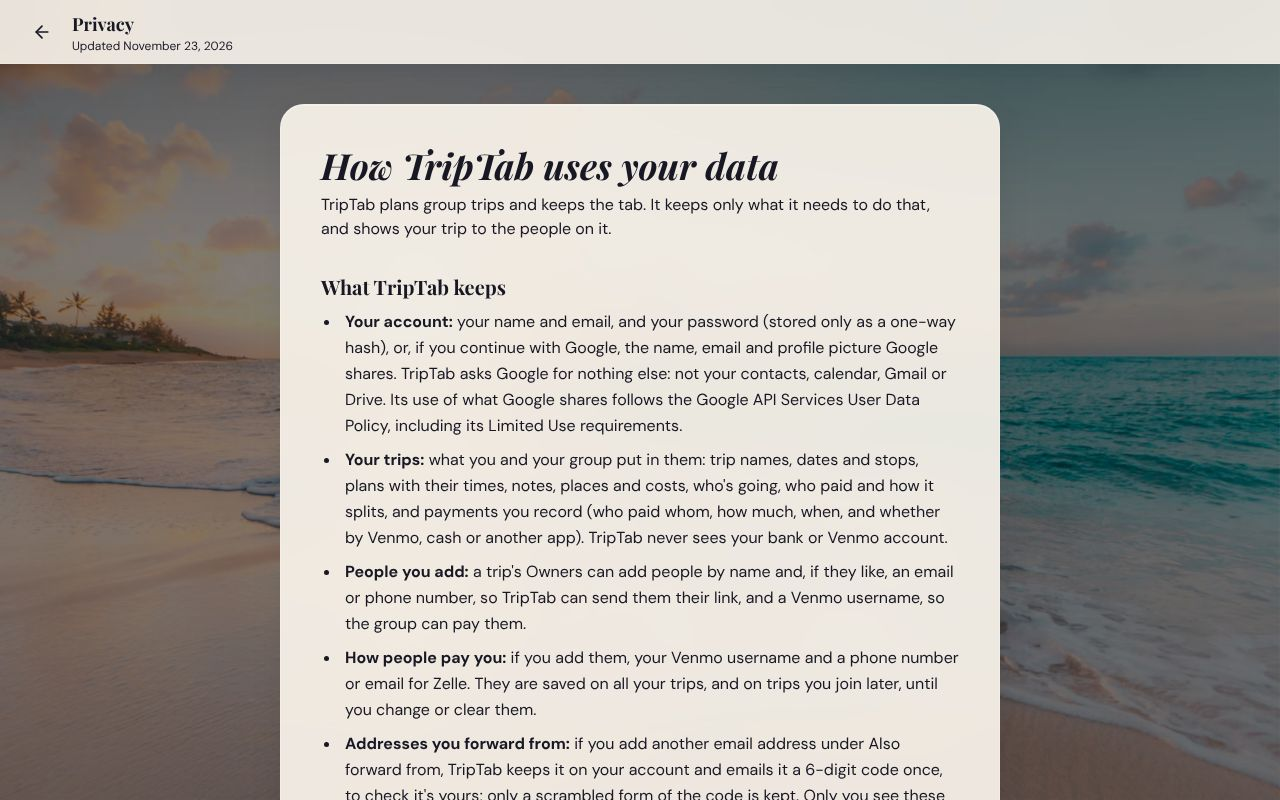
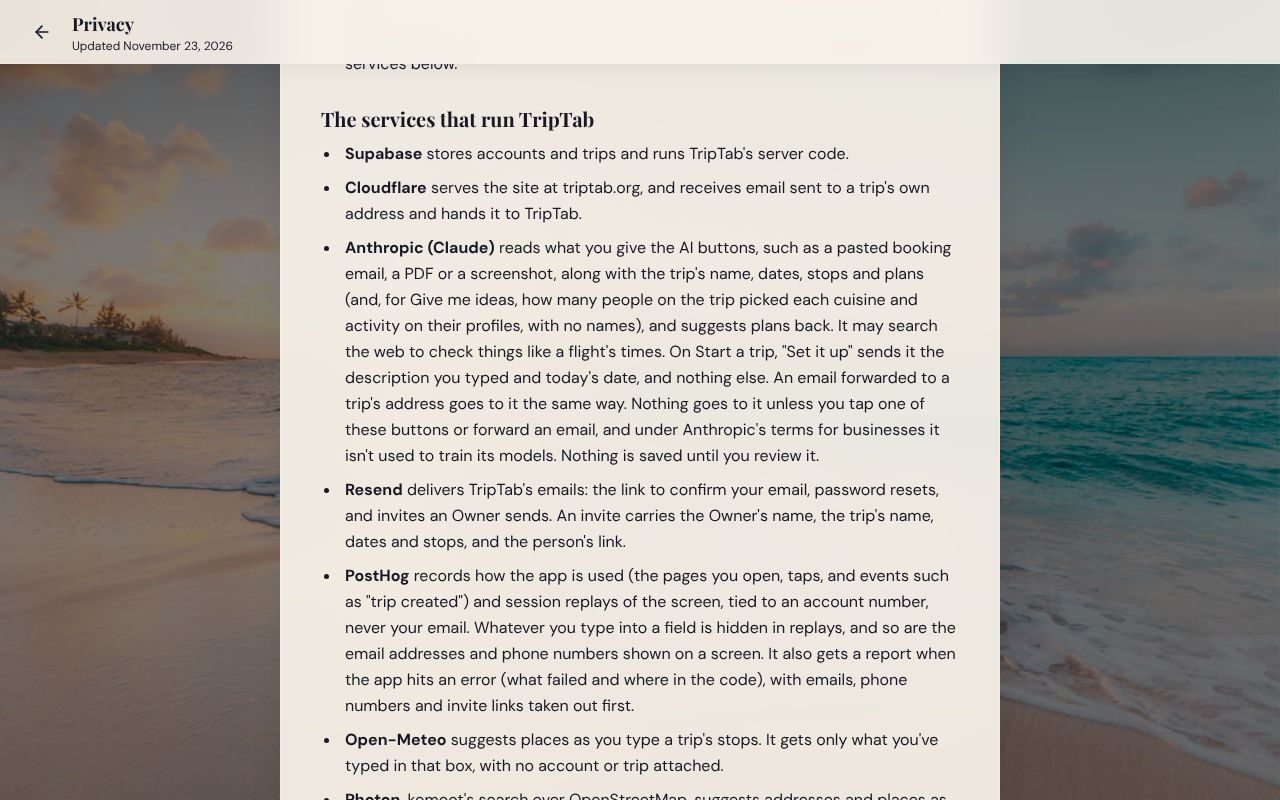
Build 4 log so far, votes on the privacy page, the new click-throughs in npm run e2e, and rule 12 (#91)
* Build 4 log so far, the new click-throughs in npm run e2e, AGENTS.md rule 12

* Product Vision: what was built 11/23 (re-export)

* Older click-throughs pick the first Start a trip button on the new landing page

* Start-trip click-through opens the folded day first

* The privacy page says who sees your votes

* Build 4: Track B, with the Euro ski trip group

Changed region(s): [[0.25, 0.1875, 0.75, 1.0], [0.2188, 0.0625, 0.7812, 0.1562]]

diff --git a/docs/index.html b/docs/index.html
@@ -297,7 +297,15 @@
       <div class="log-entry">
         <h3>Build 4 · Test.py: Choose Track A or Track B (Due Nov 30)</h3>
         <ul>
-          <li><strong>Chosen track:</strong> [A: 10-case domain eval and one outside target-user review; OR B: 3–5 outside users and replay findings]</li>
+          <li><strong>Shipped so far (11/23, pull requests #77 to #90):</strong> the calls I made after a product manager review of the live app, each live on triptab.org after its tests and a click-through at laptop and phone width.
+            <ul>
+              <li><strong>Getting friends in:</strong> an Invite the group card while you're alone on a trip; the invite page shows who invited you, who's coming and the next three plans before you sign up (never a cost); from the link to the trip with no second Join, pay step, tour or email reminder in the way.</li>
+              <li><strong>Your profile (You):</strong> name, Venmo, Zelle and phone kept once and filled in on every trip you join, with a lock you set: locked, no Owner can change them. An optional preferences survey (food, things to do), private by default, shapes Plan with AI as a count with no names; its eval was rerun before it shipped (12 of 12 cases, $0.22 at list price, <a href="https://github.com/building-with-ai-f26/mwp9437-triptab/blob/main/journal/evals/README.md">results</a>).</li>
+              <li><strong>On a phone:</strong> a bottom bar for Itinerary, Money, To do and People; pinned buttons on sheets, 44 px tap targets, empty days folded; an unsaved AI review kept on the trip.</li>
+              <li><strong>On a trip:</strong> who's in on a plan always matches its bill (the "Everyone" bug); Confirm and log the cost first on a Planned plan; Your plans at the top for a friend; "I want this" votes on Suggested plans; a landing page that shows the product; app errors reported to PostHog with emails, phones and links scrubbed.</li>
+            </ul>
+          </li>
+          <li><strong>Chosen track:</strong> B: 3 to 5 outside users and replay findings. The users are the friends on my Euro ski trip (chosen 11/23).</li>
           <li><strong>Results and improvements:</strong> [Before/after evidence; for Track B, fixes to the top three friction points]</li>
           <li><strong>PRD v4 changes:</strong> [What the evidence changed]</li>
           <li><strong>Cost & time this week:</strong> $[0.00] · [0] hours</li>

diff --git a/app/src/pages/Privacy.tsx b/app/src/pages/Privacy.tsx
@@ -40,6 +40,10 @@ const SECTIONS: { title: string; body: ReactNode }[] = [
           ticked. It's optional, and private unless you choose to share it.
         </li>
         <li>
+          <b>Plans you say you want:</b> if you tap I want this on a suggested plan, TripTab keeps that vote until you
+          take it back or the plan is removed.
+        </li>
+        <li>
           <b>Addresses you forward from:</b> if you add another email address under Also forward from, TripTab keeps it
           on your account and emails it a 6-digit code once, to check it's yours; only a scrambled form of the code is
           kept. Only you see these addresses, and you can remove them at any time.
@@ -85,6 +89,7 @@ const SECTIONS: { title: string; body: ReactNode }[] = [
           people on the trip picked each thing ("3 of 4 like Italian"), never who, so its ideas fit the group. On a
           trip of two, that can hint at the other person's picks.
         </li>
+        <li>Your votes on suggested plans are shown, with your name, to the people on that trip.</li>
         <li>A price you mark as your own (when everyone pays their own) is shown only to you.</li>
         <li>TripTab never sells your data, shows ads, or shares it with anyone beyond the services below.</li>
       </ul>

diff --git a/app/src/profile.live.test.ts b/app/src/profile.live.test.ts
@@ -48,12 +48,12 @@ afterAll(async () => {
 
 describe("your profile", () => {
   it("starts empty and locked, before you've saved one", async () => {
-    expect((await vic.rpc("my_profile")).data).toEqual({ venmo: null, zelle: null, phone: null, locked: true, saved: false, ...NO_PREFS });
+    expect((await vic.rpc("my_profile")).data).toMatchObject({ venmo: null, zelle: null, phone: null, locked: true, saved: false, ...NO_PREFS });
   });
 
   it("saves once and goes on every trip you're on, tidied the way trips store it", async () => {
     expect((await save(vic, { venmo: " @vic-tt ", zelle: "+1 (555) 123-4567", phone: "917-555-0142" })).error).toBeNull();
-    expect((await vic.rpc("my_profile")).data).toEqual({ venmo: "vic-tt", zelle: "5551234567", phone: "917-555-0142", locked: true, saved: true, ...NO_PREFS });
+    expect((await vic.rpc("my_profile")).data).toMatchObject({ venmo: "vic-tt", zelle: "5551234567", phone: "917-555-0142", locked: true, saved: true, ...NO_PREFS });
     expect(await row(owner, vicRow)).toEqual({ venmo: "vic-tt", zelle: "5551234567", pay_locked: true });
     expect(await phoneOf(owner, tripId, vicRow)).toBe("917-555-0142");
   });

diff --git a/AGENTS.md b/AGENTS.md
@@ -13,7 +13,7 @@
 - **Run locally:** `cd app && npm run dev`, then open http://localhost:5173, click **Start a trip**, create an account, and use **Fill in the ski trip example**.
 - **Run deterministic tests:** `cd app && npm test` (money math, data model, timeline; offline).
 - **Run the database security tests:** `cd app && npm run test:rls` against TripTab dev (194 tests of row-level security, who can send invite emails, the money rules, who can write and read own costs, who can call AI import, plans that span time and extending a trip, email-in, Also forward from addresses, held forwards and costs in another currency, against the Supabase project in `app/.env.local`, which is TripTab dev; 193 run every time, and the AI daily-cap test runs only with `VITE_CAP_FIXTURE=1`; needs `app/.env.local`; creates throwaway `rls-...@example.com` accounts).
-- **Click through the app:** with `npm run dev` running, `cd app && npm run e2e` (Playwright: the Build 2 flow, the Build 3 money flow, Build 4, trip settings, live updates, who pays, AI import and Plan with AI with canned replies (one AI help button with two choices, a day and part for each idea, AI ideas marked on their cards), plans that span time, extending a trip, a joined spot asking you to sign in, Google sign-in first with email one tap away (Google faked on and off), Forgot password, invite emails (with the function's answers faked), the privacy page, and starting a trip (place suggestions faked, the photo, the phone dialog opening in place), the Add a plan dialog (parts as select all that apply, times on any plan, the cost folded), recording payments (Pay with Venmo, Record it, removing one), Venmo names an Owner adds, how people pay you (asked at your first Settle up, locked once you set it, Zelle in Settle up), the friend's first minute (`first-minute-flow`, C45: link, name, account, trip, with no second Join, pay step, guide or email reminder; an existing account joins in one tap), the invite before sign-up (`invite-preview-flow`, C45: who invited you, the next 3 plans, who's coming, never a cost), the confirm-your-email reminder, a booking merging into a plan with a general name, Also forward from (a code typed back), a forward from an unknown address held for an Owner (`held-flow`, two real AI calls per width), costs in another currency (`fx-flow`, the day's rate canned), and who's in matching the bill (`whos-in-flow`, C47); saves screenshots at 1280 and 390 wide to `docs/screenshots/`; events are tagged `test_run` so PostHog dashboards leave them out). On a laptop, Playwright needs `npm i -D playwright && npx playwright install chromium` first.
+- **Click through the app:** with `npm run dev` running, `cd app && npm run e2e` (Playwright: the Build 2 flow, the Build 3 money flow, Build 4, trip settings, live updates, who pays, AI import and Plan with AI with canned replies (one AI help button with two choices, a day and part for each idea, AI ideas marked on their cards), plans that span time, extending a trip, a joined spot asking you to sign in, Google sign-in first with email one tap away (Google faked on and off), Forgot password, invite emails (with the function's answers faked), the privacy page, and starting a trip (place suggestions faked, the photo, the phone dialog opening in place), the Add a plan dialog (parts as select all that apply, times on any plan, the cost folded), recording payments (Pay with Venmo, Record it, removing one), Venmo names an Owner adds, how people pay you (asked at your first Settle up, locked once you set it, Zelle in Settle up), the friend's first minute (`first-minute-flow`, C45: link, name, account, trip, with no second Join, pay step, guide or email reminder; an existing account joins in one tap), the invite before sign-up (`invite-preview-flow`, C45: who invited you, the next 3 plans, who's coming, never a cost), the confirm-your-email reminder, a booking merging into a plan with a general name, Also forward from (a code typed back), a forward from an unknown address held for an Owner (`held-flow`, two real AI calls per width), costs in another currency (`fx-flow`, the day's rate canned), who's in matching the bill (`whos-in-flow`, C47), and the 11/23 pieces: Invite the group (`invite-group-flow`, C46), the phone bottom bar (`bottom-bar-flow`), folded empty days, pinned sheet buttons and 44 px tap targets (`fold-days-flow`, `sheet-buttons-flow`, `tap-targets`), Confirm and log the cost first on a Planned plan (`confirm-first-flow`), the landing page (`landing-flow`), Your plans (`your-plans-flow`), an unsaved AI review kept on the trip (`keep-review-flow`), your profile and its lock (`profile-flow`, C50), the preferences survey (`tastes-flow`, C51) and votes on Suggested plans (`votes-flow`); saves screenshots at 1280 and 390 wide to `docs/screenshots/`; events are tagged `test_run` so PostHog dashboards leave them out). On a laptop, Playwright needs `npm i -D playwright && npx playwright install chromium` first.
 - **Check text contrast:** with `npm run dev` running, `cd app && node e2e/contrast-check.cjs` measures every text run against the photo or glass behind it at 1280 and 390 wide and lists anything under 4.5:1 (3:1 for large text). Plan cards are listed apart from the rest.
 - **Check PostHog events:** start a dev server with a dummy key (`VITE_POSTHOG_KEY=phc_dummy npx vite --port 5174`), then `node e2e/posthog-check.cjs`. PostHog calls are intercepted; nothing is sent. It also throws an error whose message holds an email, a phone number and a group link, and checks the `$exception` PostHog gets has none of them (C48, 11/23). `node e2e/crash-flow.cjs` (in `npm run e2e`) checks the Something went wrong screen a crashed page shows.
 - **Build:** `cd app && npm run build` (type-checks, then bundles).
@@ -45,12 +45,13 @@ app/                      the web app (Vite)
   src/lib/importEval.ts   scoring for the import eval (four rubric rules, in code); planEval.ts does the same for Plan with AI
   src/lib/live.ts         live updates; ics.ts: add to calendar; photos.ts: the destination photos
   src/lib/analytics.ts    PostHog: track() and identify(); a no-op without a key
+  src/pages/You.tsx       your profile (/you, C50): name, Venmo, Zelle, phone, the lock, and the preferences survey (C51; lists in src/lib/tastes.ts)
   src/*.test.ts           unit tests (npm test); src/*.live.test.ts runs only with npm run test:rls
   e2e/                    Playwright click-throughs and the PostHog check
 supabase/migrations/      the database: tables, row-level security, functions (applied in order)
 supabase/functions/       Edge Functions: sign-up; confirm-email; ai-status; send-invite (invite emails, rules.ts holds the limits); import-bookings, plan-with-ai and describe-trip (index.ts calls Claude; rules.ts holds the
                           system prompt, prices, caps and output checks)
-app/evals/                the AI evals: import/ and plan/, 10 cases each, with their runners
+app/evals/                the AI evals: import/ (10 cases) and plan/ (12 since C51: 2 on the group's tastes), with their runners
 docs/                     Product Page (index.html), PRODUCT_VISION.md, DESIGN.md, screenshots/, app/ (the published build)
 journal/evals/            eval results (README.md has the summary)
 ```
@@ -75,6 +76,7 @@ journal/evals/            eval results (README.md has the summary)
 9. **The privacy page stays true:** `app/src/pages/Privacy.tsx` (triptab.org/privacy, linked from Google's consent screen) describes what the code does. A change that stores a new kind of personal data, sends data to a new service, or changes who can see what updates that page, and its date, in the same pull request.
 10. **A function that takes an id checks the id belongs to what it's acting for** (born from the 11/22 audit): `save_expense` checked the caller owned the trip passed in, but not that the expense passed in was on that trip, so an Owner of any trip could rewrite another trip's expense. A function with raised rights that takes two ids (a trip and an expense, a plan and a traveler) checks they go together before it writes, and gets a live test where a stranger passes their own trip with someone else's row.
 11. **Count in the database, never in rows fetched** (born from the 11/22 audit): the AI caps added up rows read through the API, which returns 1,000 at most, so a busy day stopped counting. A limit's sum or count is one SQL statement (`ai_spend_today`), or a `count` request, never a list the function walks.
+12. **A stacked pull request can put dev ahead of `main`, so tests on a function's reply allow new fields** (born from a real stop, 11/23): the preferences pull request's build added three fields to `my_profile` on TripTab dev while the profile pull request, already merged, was waiting for its production build. That build runs `main`'s tests against dev, three of them compared the reply exactly (`toEqual`), and production's deploy stopped until the next merge. A live test that reads a function's JSON reply uses `toMatchObject`, so a later migration can add fields; and merge a migration's pull request before pushing the next one that changes the same function's reply. Also from 11/23: a GitHub Tests run doesn't start at all on a pull request that conflicts with `main`, so no Tests check on a new commit means look for a conflict.
 
 ## 4. Shipping
 

diff --git a/docs/PRODUCT_VISION.md b/docs/PRODUCT_VISION.md
@@ -299,6 +299,8 @@ You see a real gap in the market and would keep TripTab running after the course
 - **Profiles that carry across trips:** pay details (Venmo, Zelle), email and the rest, kept once, so an existing user joins a new trip without entering anything again. The goal is the least friction joining a trip. Mike's call, 11/23. **Claude's note:** part of this exists. Venmo and Zelle are already copied into every trip you join, and saving them changes all your trips at once. What's missing is a page of your own to see and change them, and a join that skips the questions you've already answered. That second part belongs with C45. Settled 11/23 (C50): the profile holds your name, Venmo, Zelle and phone (email stays your sign-in email), and it's where you lock or unlock your Venmo, Zelle and phone: locked, no Owner can change them on any trip; unlocked, an Owner can add or fix them for you.
 - **A short preferences survey** (cuisines, activities and the like) in the profile, so AI suggestions fit the group's tastes. Mike's call, 11/23. **Claude's note:** it changes Plan with AI's prompt, so it needs its eval rerun with no drop first. Settled 11/23 (C51): each person toggles whether their preferences are shared with the group or private; private until you switch it on (Claude's default), and private answers still shape the AI's suggestions without anyone seeing them.
 
+**Built 11/23** (pull requests 77 to 90, each after its tests and a click-through at phone and laptop width). From your calls: who's in on a plan follows its bill (C47); app errors go to PostHog, scrubbed (C48, part 1) and the landing page shows the product (C48, part 2); Invite the group (C46); the friend's first minute (C45): the invite shows who invited you, who's coming and the next three plans before sign-up, and the link leads to the trip with no second Join, pay step, tour or email reminder; the phone bottom bar; your profile, You, with its lock (C50); the preferences survey, private by default, feeding Plan with AI as a count with no names (C51, eval 12 of 12 before it shipped). From the review's other items: Confirm and log the cost first on a Planned plan (item 6); phone polish (item 9: pinned sheet buttons, 44 px tap targets, folded empty days, an unsaved AI review kept on the trip); Your plans, a friend's first view about them (item 4); votes on Suggested plans (item 7). That is all nine build items of the review; item 10 is for the Sponsor Memo, not a build. None of it has been tried by a real user yet: the 11/24 pod test is the first.
+
 **Raised 11/17** (setting up the pod test trip; scheduled for Build 3 in the Features row on the Run book tab)
 
 - **Adding plans needs more flexibility.** An Add a plan button at the top of the trip, not only tapping a slot. A plan can run across several days with a start and end time (skiing 9 AM to 4 PM every day in Chamonix) instead of picking Morning and Day on each day. The four parts of the day stay as how the itinerary is laid out, and empty slots still show, so a gap like Thursday night stands out.
